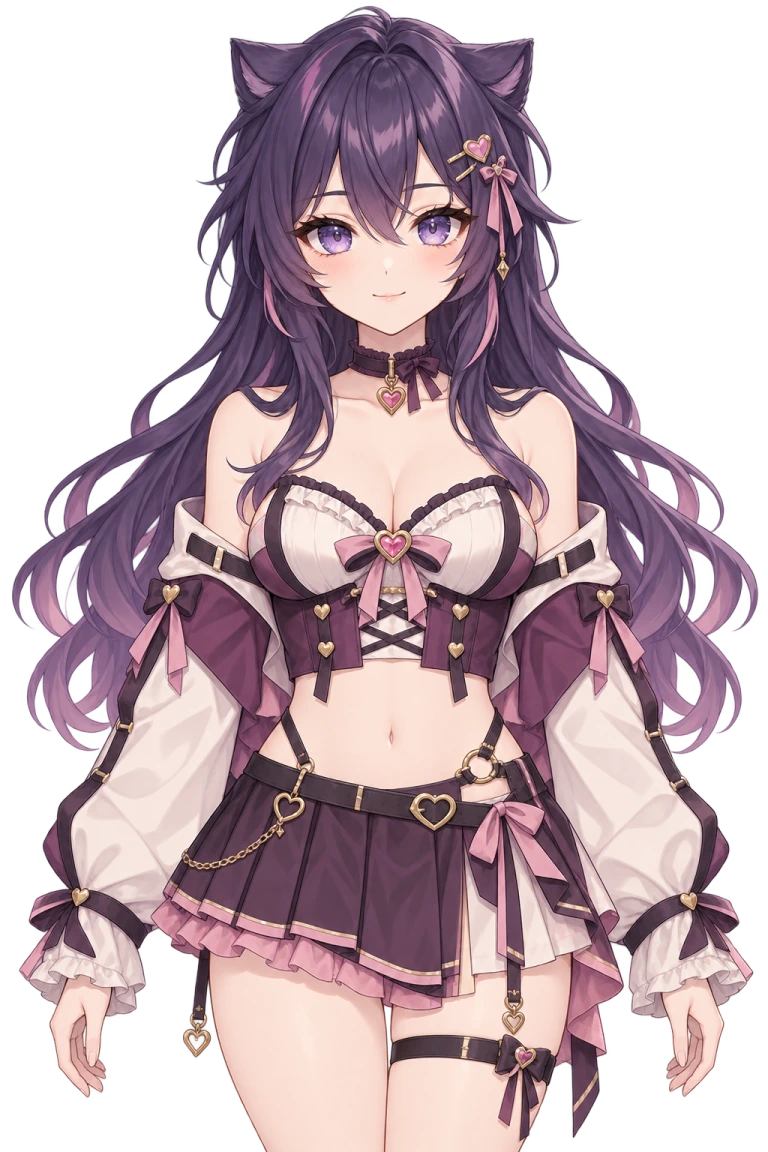
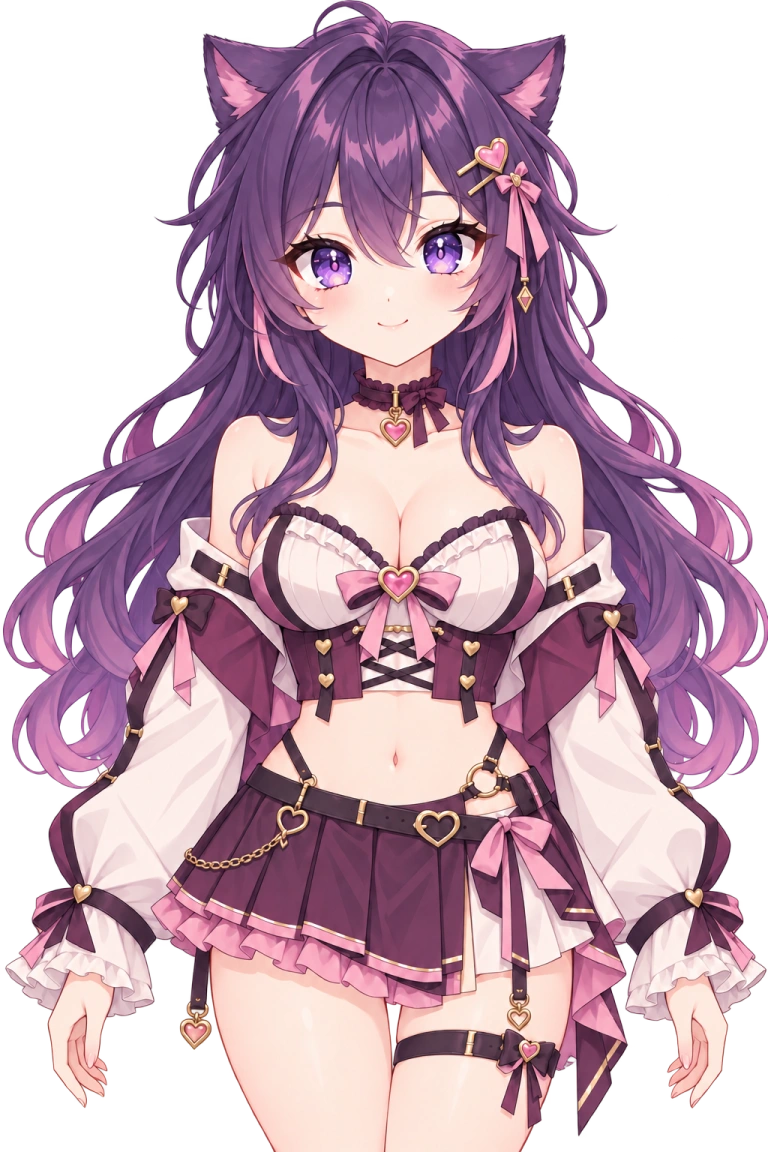
Redraw Kokoro-chan as anime waifu uwu

diff --git a/src/sample.js b/src/sample.js
@@ -72,8 +72,8 @@ function addHeadFollower(layer) {
 }
 
 function createEyelid(name, x) {
-  const width = 68;
-  const height = 36;
+  const width = 76;
+  const height = 52;
   const layer = createLayer({
     name,
     width,
@@ -81,12 +81,12 @@ function createEyelid(name, x) {
     columns: 3,
     rows: 2,
     x,
-    y: -277,
+    y: -249,
     zIndex: 1,
     src: svgData(width, height, `
       <defs><radialGradient id="skin"><stop offset="0" stop-color="#f9d8d0"/><stop offset=".72" stop-color="#f5cbc8"/><stop offset="1" stop-color="#f5cbc8" stop-opacity="0"/></radialGradient></defs>
-      <ellipse cx="34" cy="18" rx="33" ry="16" fill="url(#skin)"/>
-      <path d="M9 18Q34 28 59 18" fill="none" stroke="#563744" stroke-width="3" stroke-linecap="round"/>
+      <ellipse cx="38" cy="26" rx="37" ry="25" fill="url(#skin)"/>
+      <path d="M10 27Q38 38 66 27" fill="none" stroke="#563744" stroke-width="3" stroke-linecap="round"/>
     `),
   });
   layer.transform.opacity = 0;
@@ -106,7 +106,7 @@ function createMouth() {
     columns: 3,
     rows: 2,
     x: 0,
-    y: -231,
+    y: -204,
     zIndex: 2,
     src: svgData(width, height, `
       <ellipse cx="34" cy="21" rx="25" ry="17" fill="#672b48" stroke="#4d293d" stroke-width="2"/>
@@ -145,8 +145,8 @@ export function createSampleModel() {
 
   model.layers.push(
     portrait,
-    createEyelid("Left Eyelid", -42),
-    createEyelid("Right Eyelid", 42),
+    createEyelid("Left Eyelid", -44),
+    createEyelid("Right Eyelid", 47),
     createMouth(),
   );
   return model;
